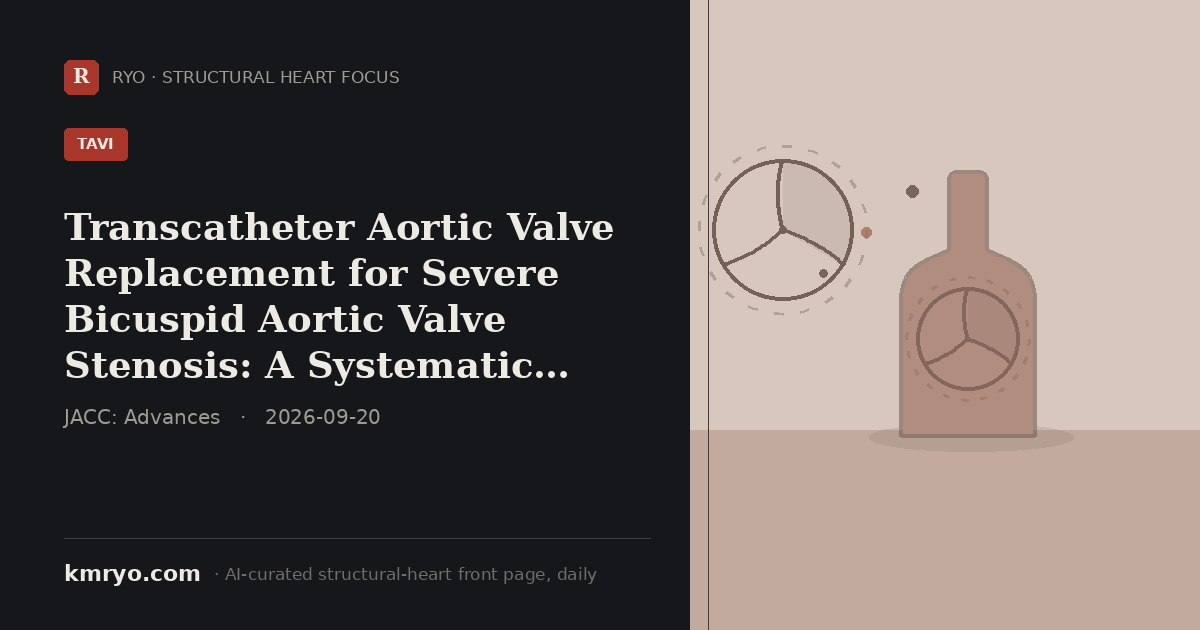
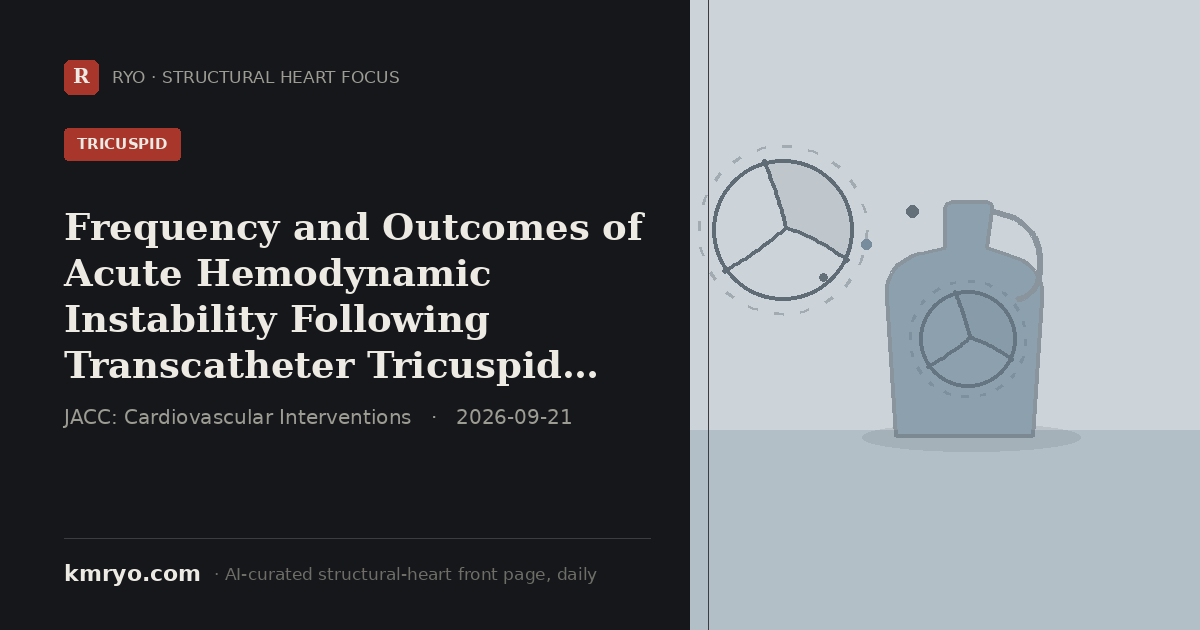
pulse: 2026-09-21 daily update
Claude-Session: https://claude.ai/code/session_01RsdSBB48GdiLexRRMSVfSB

diff --git a/index.html b/index.html
@@ -6,8 +6,8 @@
 <title>Structural Heart Focus — Daily | Dr. Mi Chen · 千觅量子 RYO</title>
 <meta name="description" content="Structural Heart Focus — the day's most important structural-heart reading (top journals, major meetings and the field's conversation), curated daily by an AI agent from inside the Zurich hybrid room. By Dr. Mi Chen · 千觅量子 RYO.">
 <!-- Social share card. Regenerated daily by the pulse agent (pulse/make_share_card.py); og:title/description updated to the day's top story so LinkedIn/WeChat/X show today's headline, not a static portrait. -->
-<meta property="og:title" content="Transcatheter Aortic Valve Replacement for Severe Bicuspid Aortic Valve Stenosis: A Systematic Review and Meta-Analysis">
-<meta property="og:description" content="A 52-study, ~295,615-patient meta-analysis finds TAVR in bicuspid aortic stenosis carries higher periprocedural risk than tricuspid anatomy but lower 1-year mortality, with far fewer pacemakers than surgery.">
+<meta property="og:title" content="Frequency and Outcomes of Acute Hemodynamic Instability Following Transcatheter Tricuspid Valve Replacement: Insights From the CESAR-TR-Registry">
+<meta property="og:description" content="The international CESAR-TR registry (200 patients, 5 centers) finds acute hemodynamic instability in 8.5% of TTVR patients, always within 24 hours, with in-hospital mortality of 35.2% vs 0.1% without it.">
 <meta property="og:image" content="https://www.kmryo.com/pulse/img/share/card.png">
 <meta property="og:image:width" content="1200">
 <meta property="og:image:height" content="630">
@@ -16,8 +16,8 @@
 <meta property="og:type" content="website">
 <meta property="og:site_name" content="kmryo.com · Structural Heart Focus">
 <meta name="twitter:card" content="summary_large_image">
-<meta name="twitter:title" content="Transcatheter Aortic Valve Replacement for Severe Bicuspid Aortic Valve Stenosis: A Systematic Review and Meta-Analysis">
-<meta name="twitter:description" content="A 52-study, ~295,615-patient meta-analysis finds TAVR in bicuspid aortic stenosis carries higher periprocedural risk than tricuspid anatomy but lower 1-year mortality, with far fewer pacemakers than surgery.">
+<meta name="twitter:title" content="Frequency and Outcomes of Acute Hemodynamic Instability Following Transcatheter Tricuspid Valve Replacement: Insights From the CESAR-TR-Registry">
+<meta name="twitter:description" content="The international CESAR-TR registry (200 patients, 5 centers) finds acute hemodynamic instability in 8.5% of TTVR patients, always within 24 hours, with in-hospital mortality of 35.2% vs 0.1% without it.">
 <meta name="twitter:image" content="https://www.kmryo.com/pulse/img/share/card.png">
[1 lines of base64/hex data omitted]
 <link rel="preconnect" href="https://fonts.googleapis.com">
